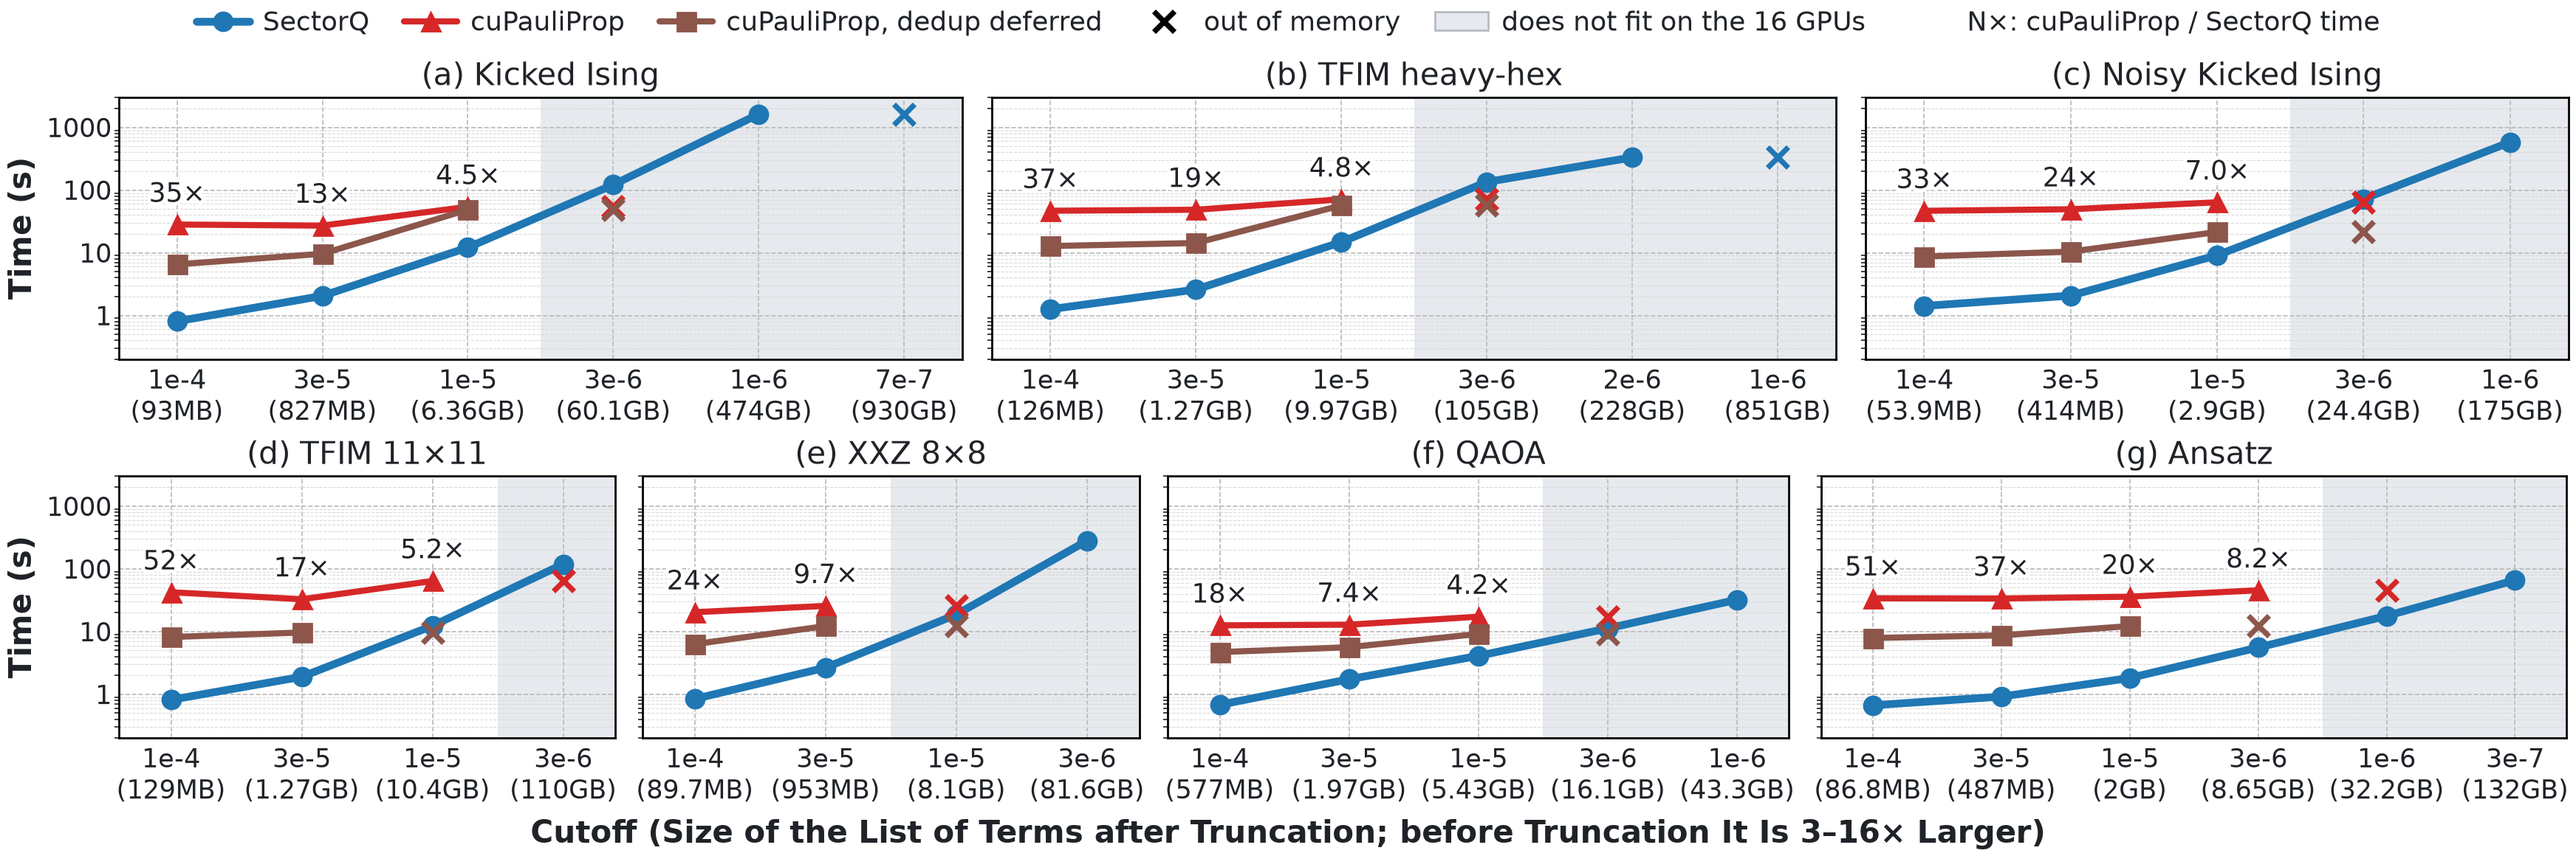
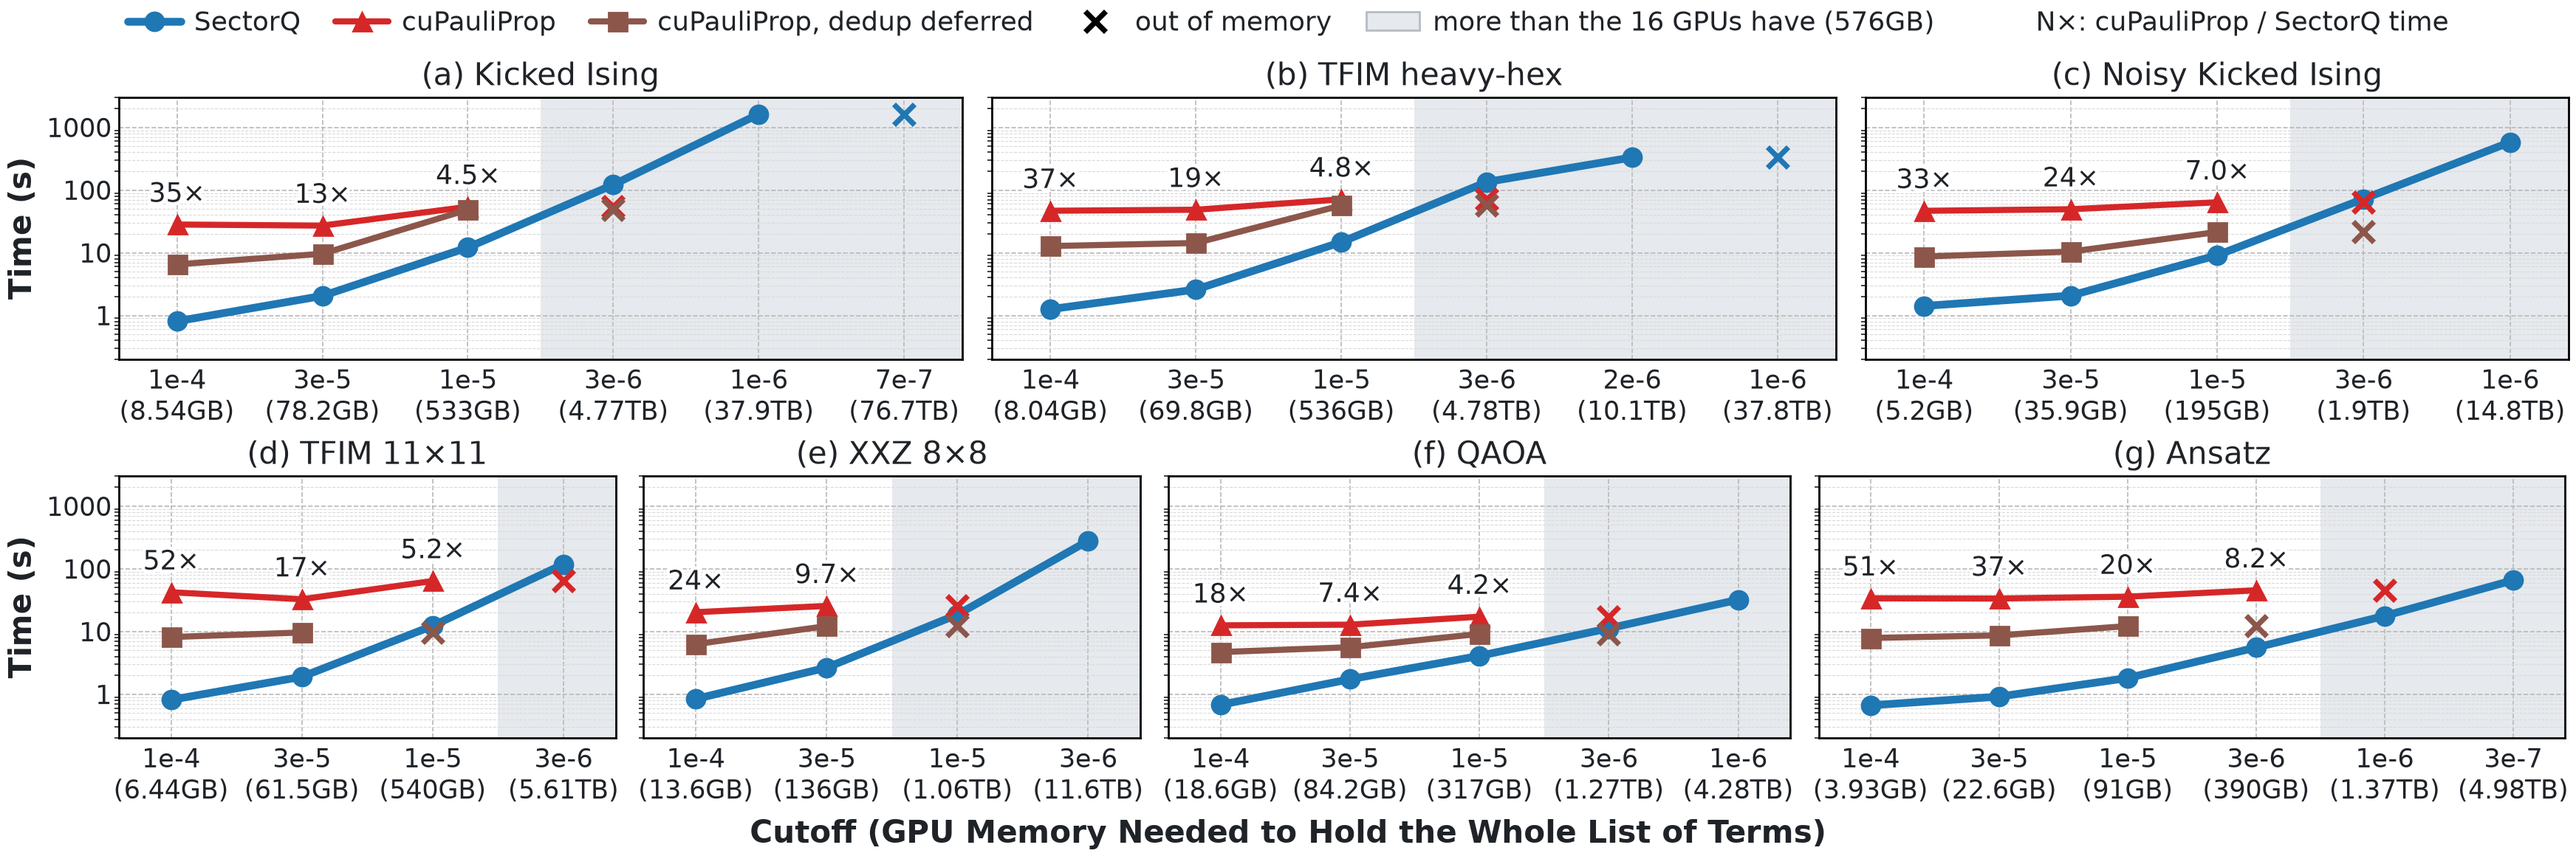
Deck circuit figures: one number under a cutoff, the GPU memory the whole problem needs
The number to compare with the memory of the GPUs: the largest number of terms of the run x 375 bytes (36 GB of a
GPU / the 95 million 40-byte terms it holds when the whole list is on the GPUs, where cuPauliProp reports
insufficient workspace). Shaded: more than the GPUs have (576 GB on 16 GPUs, 4.61 TB on 128). cuPauliProp's default
mode finishes problems that need up to 540 GB on 16 GPUs and fails from 727 GB on; on kicked Ising the same number
separates its last finished and first failed cutoff on 32, 64, 128, 256 and 512 GPUs.

diff --git a/figures/make_deck_figures.py b/figures/make_deck_figures.py
@@ -597,41 +597,27 @@ def peaks_of(c, cutoffs):
     return out
 
 
-GPU_TERMS = 95e6      # terms one GPU holds when all terms are kept on the GPUs (cuPauliProp's default mode finishes with up
-                      # to 89 million per GPU and runs out of memory from 98 million on; 40 bytes each: about 4 GB of 36 GB)
+GPU_TERMS = 95e6      # 40-byte terms one 36-GB GPU holds when the whole list is on the GPUs: cuPauliProp reports "insufficient
+                      # workspace" with 92-110 million local terms (default mode finishes up to 89 million, fails from 98 million)
+GPU_USED = 36e9       # bytes of a 40-GB GPU that the runs use (--vram-frac 0.9)
+NEED = GPU_USED / (GPU_TERMS * 40)       # GPU memory per byte of terms: the terms, the output buffer and the scratch space (9.5)
 BEYOND = "#E6E9ED"
 
 
 def size_ticks(ax, c, peaks, g):
-    """The tick labels of a panel as the cutoff and one size: that of the list of terms after truncation, which is what
-    stays in memory (the third line of cut_ticks). While the gates between two truncations are applied the list is
-    several times larger; where that larger list no longer fits on `g` GPUs the panel is shaded. Returns the factors
-    (largest number of terms / number after truncation) of the labelled problems."""
-    labels = [t.get_text().split("\n") for t in ax.get_xticklabels()]
+    """The tick labels of a panel as the cutoff and one size: the GPU memory needed to hold the whole list of terms on
+    the GPUs at its largest (the largest number of terms of the run x the bytes of a term x NEED). This is the number
+    to compare with the memory of the GPUs: where it is larger than `g` GPUs have, the panel is shaded."""
+    cuts = [t.get_text().split("\n")[0] for t in ax.get_xticklabels()]
     size = ax.get_xticklabels()[0].get_fontsize()
-    ax.set_xticklabels([l[0] + "\n" + (l[2] if len(l) > 2 else "") for l in labels], fontsize=size)
-    cuts = [l[0] for l in labels]
-    over = [i for i, x in enumerate(cuts) if peaks.get(x, 0) > g * GPU_TERMS]
+    need = {x: peaks[x] * mf.term_bytes(c) * NEED for x in cuts if x in peaks}
+    ax.set_xticklabels([x + "\n" + (f"({mf.data_size(need[x])})" if x in need else "") for x in cuts], fontsize=size)
+    over = [i for i, x in enumerate(cuts) if need.get(x, 0) > g * GPU_USED]
     if over:
         ax.axvspan(over[0] - 0.5, ax.get_xlim()[1], color=BEYOND, zorder=0, linewidth=0)
-    kept = {x: gkept(c, x) for x in cuts}
-    return [peaks[x] / kept[x] for x in cuts if x in peaks and kept[x]]
 
 
-def gkept(c, x):
-    """Terms after truncation (at the window boundaries) of one problem, from any SectorQ run of it."""
-    n = mf.gterms(campaign(), c, x)
-    if n:
-        return n
-    for r in scaling_jobs():
-        if r["kind"] == "engine" and r["circuit"] == mf.BIG_NAME.get(c) and r["opt"].get("--coef") == x and mf.ok(r) and r.get("boundary"):
-            return r["boundary"]
-    return None
-
-
-def xl_sizes(factors):
-    return (f"Cutoff (Size of the List of Terms after Truncation; before Truncation It Is {min(factors):.0f}–{max(factors):.0f}× Larger)"
-            if factors else "Cutoff (Size of the List of Terms after Truncation)")
+XL_NEED = "Cutoff (GPU Memory Needed to Hold the Whole List of Terms)"
 
 
 def stops(reasons):
@@ -661,7 +647,6 @@ def d_circuits_all():
         if r["kind"] == "engine" and mf.ok(r) and r.get("boundary"):
             more.setdefault({v: k for k, v in mf.BIG_NAME.items()}.get(r["circuit"]), {})[r["opt"]["--coef"]] = r["boundary"]
     rows = mf.g_circuits(campaign(), axes=panels, which=which, keep=slide_ladder, sizes=more)
-    factors = []
     for j, ax in enumerate(panels):
         for t in ax.get_xticklabels():
             t.set_fontsize(13.5)
@@ -671,15 +656,15 @@ def d_circuits_all():
         ax.set_yticks([1, 10, 100, 1000])
         ax.set_xlabel("")
         ticks = [t.get_text().split("\n")[0] for t in ax.get_xticklabels()]
-        factors += size_ticks(ax, which[j], peaks_of(which[j], ticks), 16)
+        size_ticks(ax, which[j], peaks_of(which[j], ticks), 16)
         ours, cupp = dict(rows[3 * j][2]), dict(rows[3 * j + 1][2])
         for x in ticks:
             if x in ours and x in cupp:
                 value(ax, ticks.index(x), cupp[x], mf.times(cupp[x], ours[x]), dy=8, size=13)
-    fig.supxlabel(xl_sizes(factors), fontsize=15, fontweight="bold")
+    fig.supxlabel(XL_NEED, fontsize=15, fontweight="bold")
     e = entries(fig, panels[0])
     e[-1] = (e[-1][0], stops(r[3][1] for r in rows if r[3]))
-    e += [(Patch(facecolor=BEYOND, edgecolor="#B5BCC4"), "does not fit on the 16 GPUs"),
+    e += [(Patch(facecolor=BEYOND, edgecolor="#B5BCC4"), f"more than the 16 GPUs have ({mf.data_size(16 * GPU_USED)})"),
           (Line2D([0], [0], color="none"), "N×: cuPauliProp / SectorQ time")]
     fig.legend([a for a, _ in e], [b for _, b in e], loc="upper center", bbox_to_anchor=(0.5, 1 - 0.07 / 5.8), ncol=len(e), fontsize=13,
                columnspacing=1.3, handlelength=2.0, handletextpad=0.5, borderpad=0, borderaxespad=0, frameon=False)
@@ -715,7 +700,7 @@ def circuits_big(g, ladder=("1e-4", "3e-5", "1e-5", "5e-6", "3e-6", "2e-6", "1e-
     fig = plt.figure(figsize=(17.44, 5.8), layout="constrained")
     fig.get_layout_engine().set(w_pad=0.05, h_pad=0.04, wspace=0.03, rect=(0, 0, 1, 0.935))     # the legend line above
     grid = fig.add_gridspec(1, 3, width_ratios=[len(cuts[c]) for c, _ in mf.G3])
-    panels, rows, why, factors = [], {}, set(), []
+    panels, rows, why = [], {}, set()
     for j, (c, title) in enumerate(mf.G3):
         ax = fig.add_subplot(grid[0, j])
         panels.append(ax)
@@ -739,7 +724,7 @@ def circuits_big(g, ladder=("1e-4", "3e-5", "1e-5", "5e-6", "3e-6", "2e-6", "1e-
         ax.set_xticks(range(len(cuts[c])))
         ax.set_xticklabels(mf.cut_ticks(G, c, cuts[c], more=more), fontsize=13.5)
         ax.set_xlim(-0.4, len(cuts[c]) - 0.6)
-        factors += size_ticks(ax, c, peak, g)
+        size_ticks(ax, c, peak, g)
         ax.set_ylim(0.5, 3000)
         ax.set_yticks([1, 10, 100, 1000])
         ax.tick_params(axis="y", labelsize=13, labelleft=(j == 0))
@@ -747,10 +732,10 @@ def circuits_big(g, ladder=("1e-4", "3e-5", "1e-5", "5e-6", "3e-6", "2e-6", "1e-
         for i, x in enumerate(cuts[c]):                     # how many times as long the default mode takes as SectorQ
             if x in rows[c, "ours"] and x in rows[c, "cupp"]:
                 value(ax, i, rows[c, "cupp"][x], mf.times(rows[c, "cupp"][x], rows[c, "ours"][x]), dy=9, size=14)
-    fig.supxlabel(xl_sizes(factors), fontsize=15, fontweight="bold")
+    fig.supxlabel(XL_NEED, fontsize=15, fontweight="bold")
     e = entries(fig, panels[0])
     e[-1] = (e[-1][0], stops(why))
-    e += [(Patch(facecolor=BEYOND, edgecolor="#B5BCC4"), f"does not fit on the {g} GPUs"),
+    e += [(Patch(facecolor=BEYOND, edgecolor="#B5BCC4"), f"more than the {g} GPUs have ({mf.data_size(g * GPU_USED)})"),
           (Line2D([0], [0], color="none"), "N×: cuPauliProp / SectorQ time")]
     fig.legend([a for a, _ in e], [b for _, b in e], loc="upper center", bbox_to_anchor=(0.5, 1 - 0.07 / 5.8), ncol=len(e), fontsize=13,
                columnspacing=1.3, handlelength=2.0, handletextpad=0.5, borderpad=0, borderaxespad=0, frameon=False)
